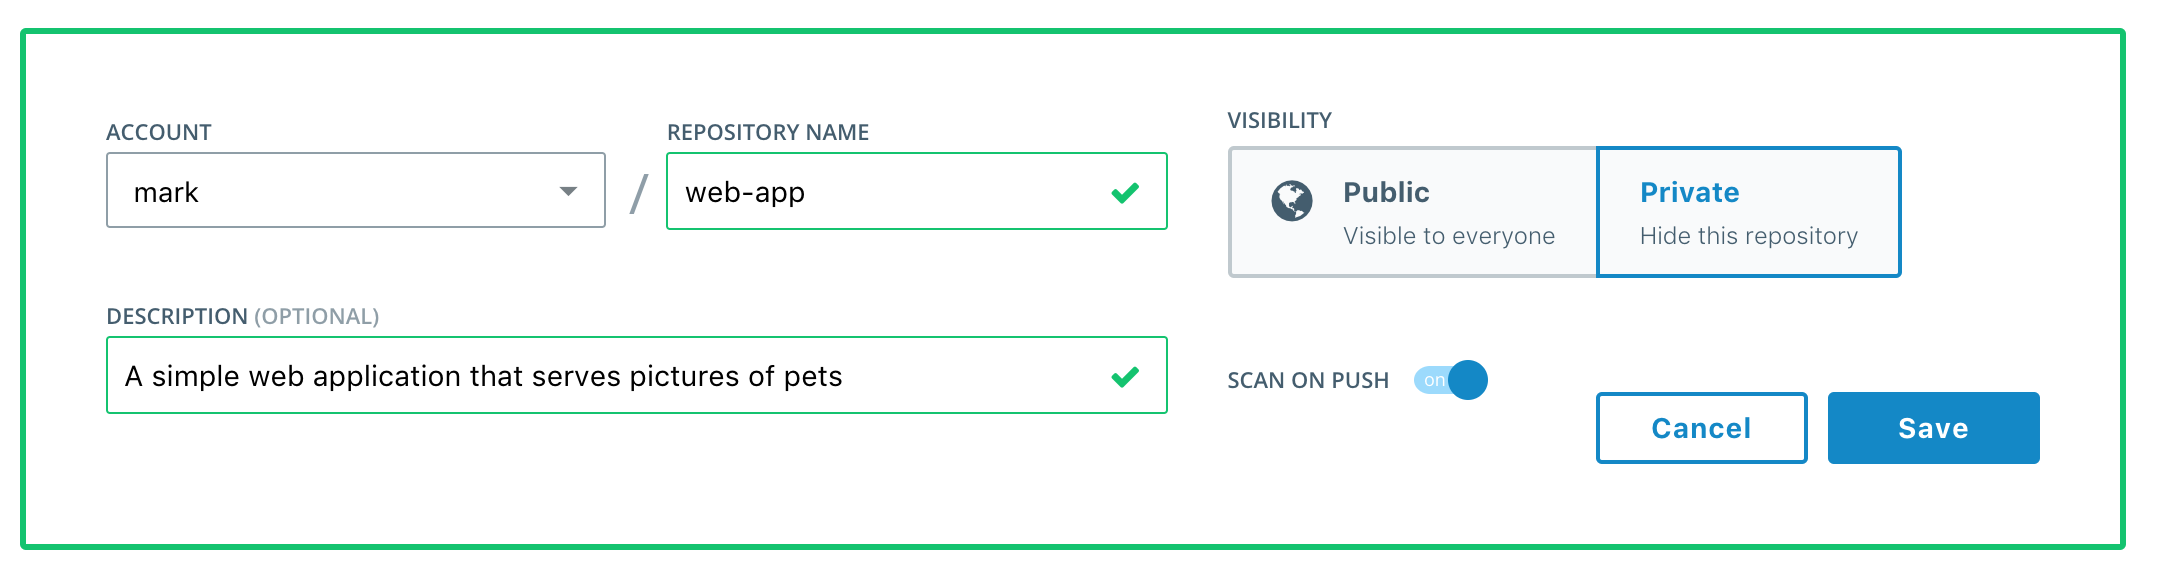
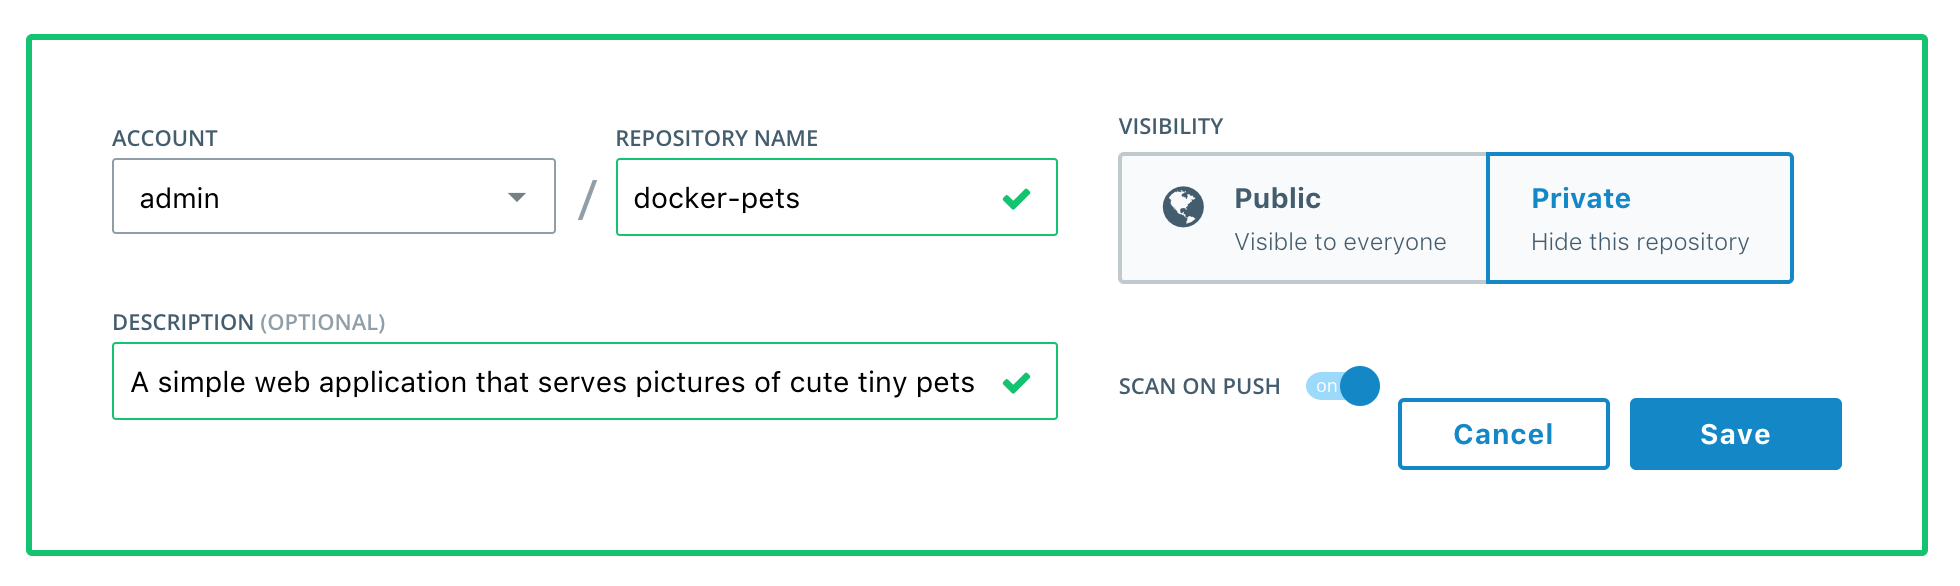
final chagnes to sec lab

Changed region(s): [[0.0, 0.0308, 0.9959, 0.9555], [0.3112, 0.1849, 0.9337, 0.4932], [0.5602, 0.6164, 0.9648, 0.8014]]

diff --git a/securing-apps-docker-enterprise/README.md b/securing-apps-docker-enterprise/README.md
@@ -94,8 +94,8 @@ The following task will guide you through how to build your application from a D
 1. Clone your application from the [GitHub repo](https://github.com/mark-church/docker-pets) with `git`. Go to the `/web` directory. This is the directory that holds the source for our application.
 
 ```
-~ $ git clone https://github.com/mark-church/docker-pets
-~ $ cd docker-pets/web
+~$ git clone https://github.com/mark-church/docker-pets
+~$ cd docker-pets/web
 ```
 
 Inspect the directory.
@@ -154,6 +154,14 @@ fetch http://dl-cdn.alpinelinux.org/alpine/v3.4/main/x86_64/APKINDEX.tar.gz
 
 It should not take more than a minute to build the image.
 
+2. You should now see that the image exists locally on your Docker engine by running `docker images`.
+
+```
+~/docker-pets/web $ docker images
+REPOSITORY          TAG                 IMAGE ID            CREATED             SIZE
+docker-pets         latest              f0b92696c13f        3 minutes ago       94.9 MB
+```
+
 ### <a name="task1.2"></a>Task 1.3: Deploy the App Locally
 
 You will now deploy the image locally to ensure that it works. Before you do this you need to turn Swarm mode on in your engine so that we can take advantage of Docker Services.
@@ -182,7 +190,7 @@ Creating service pets_web
 Creating service pets_db
 ```
 
-3. Go to your browser and in the address bar type in `<node1-public-DNS`>. (The app is serving on port 80 so you don't have to specify the port). This is the address where your local app is being served. If you see something similar to the following then it is working correctly. It may take up to a minute for the app to start up, so try to refresh until it works.
+3. Go to your browser and in the address bar type in `<node1-public-DNS>`. (The app is serving on port 80 so you don't have to specify the port). This is the address where your local app is being served. If you see something similar to the following then it is working correctly. It may take up to a minute for the app to start up, so try to refresh until it works.
 
 ![](images/single-container-deploy.png) 
 
@@ -196,11 +204,17 @@ In this lab, DTR has already been set up for you so you will log in to it and us
 
 1. Log in to DTR. Before the lab you should have been assigned a cluster and a username. Use these when logging in.
 
-Go to `<cluster-name>.dockerdemos.com` and login with your given username and password. You should see the DTR home screen.
+Go to `https://<dtr-cluster>.dockerdemos.com` and login with your given username and password. You should see the DTR home screen.
 
 ![](images/dtr-home.png) 
 
-2. Before you can push an image to DTR you must create a repository. Click on Repositories / New repository. For account, pick your username. The repository will be `docker-pets` (the same as the image name). Give it a simple description and mark the repo as Private. This will make the repo visible only to those that are granted access (which right now is only you). Ensure that "Scan on Push" is checked to On. When this is checked, images pushed to this repo will be scanned for vulnerabilities automatically.
+2. Before you can push an image to DTR you must create a repository. Click on Repositories / New repository. Fill it with the following values:
+
+- Account: select your username
+- Repository Name: `docker-pets`
+- Description: Write any description
+- Visibility: Private
+- Scan on Push: On
 
 ![](images/dtr-repo.png) 
 
@@ -215,7 +229,7 @@ Next we will push our local image to DTR. First we will need to authenticate wit
 
 ```
 ~/docker-pets $ docker run -it --rm -v /etc/docker:/etc/docker \
-  mbentley/trustdtr <cluster-name>.dockerdemos.com
+  mbentley/trustdtr <dtr-cluster>.dockerdemos.com
   
   
 Using the root CA certificate for trusting DTR
@@ -226,23 +240,23 @@ Verifying format of certificate...done
 2. Log in to DTR with your username.
 
 ```
-~/docker-pets $ docker login <cluster-name>.dockerdemos.com
+~/docker-pets $ docker login <dtr-cluster>.dockerdemos.com
 Username: <username>
 Password:
 Login Succeeded
 ```
-  
-3. Tag your image with the name registry and repo you are pushing to. Input your username and cluster. We are going to add the version tag `1.0` to the image.
+
+3. Tag the image with the URL of your DTR cluster and with the image tag `1.0`.
 
 ```
 ~/docker-pets $ docker tag docker-pets <cluster-name>.dockerdemos.com/<username>/docker-pets:1.0
 ```
 
-4. Push your image to DTR.
+4. Now push your image to DTR.
 
 ```
-~/docker-pets $ docker push <cluster>.docker-pets/<username>/docker-pets:1.0
-The push refers to a repository [dtr.church.dckr.org/mark/docker-pets]
+~/docker-pets $ docker push <dtr-cluster>.docker-pets/<username>/docker-pets:1.0
+The push refers to a repository [dtr2.dockerdemos.com/mark/docker-pets]
 273eb8eab1c9: Pushed
 7d68ed329d0d: Pushed
 02c1439e0fdc: Pushed
@@ -278,27 +292,26 @@ We identified that our application has the known vulnerability `CVE-2016-8859`. 
 ~/docker-pets/web $ vi Dockerfile
 ```
 
-2. Change the top line `FROM alpine:3.4` to `FROM alpine:edge`. `alpine:edge` is  newer version of the base OS that has this vulnerability fixed.
+2. Change the top line `FROM alpine:3.3` to `FROM alpine:3.4`. `alpine:3.4` is  newer version of the base OS that has this vulnerability fixed.
 
 3. Rebuild the image. 
 
 ```
-~/docker-pets/web $ docker build -t docker-pets
-
-
-```
-
-4. Tag the image as the `latest` and also with the DTR URL.
+~/docker-pets/web $ docker build -t docker-pets .
 
 ```
-~/docker-pets/web $ cd ..
 
-~/docker-pets $ docker push <cluster>.docker-pets/<username>/docker-pets
+4. Tag the image as the `2.0` and also with the DTR URL.
+
+```
+~/docker-pets $ docker tag docker-pets <dtr-cluster>.dockerdemos.com/<username>/docker-pets:2.0
 ```
 
 5. Re-deploy the image locally to ensure that the change did not break the app.
 
 ```
+~/docker-pets/web $ cd ..
+
 ~/docker-pets $ docker stack deploy -c pets-container-compose.yml pets
 Updating service pets_db (id: nv2lehghp7p6dpx0e57rur570)
 Updating service pets_web (id: 3f3lerya83x6a3zapc706yg23)
@@ -317,7 +330,7 @@ We have now remediated the fix and verified that the new version works when depl
 1. Push the new image to DTR.
 
 ```
-~/docker-pets $ docker push <cluster-id>.dockerdemos.com/<username>/docker-pets:2.0
+~/docker-pets $ docker push <dtr-cluster>.dockerdemos.com/<username>/docker-pets:2.0
 ```
 
 2. Go to the DTR UI and wait for the scan to complete. Once the scan has completed DTR will report that the vulnerability no longer exists in this image. The image is now ready for use by the rest of your team!
